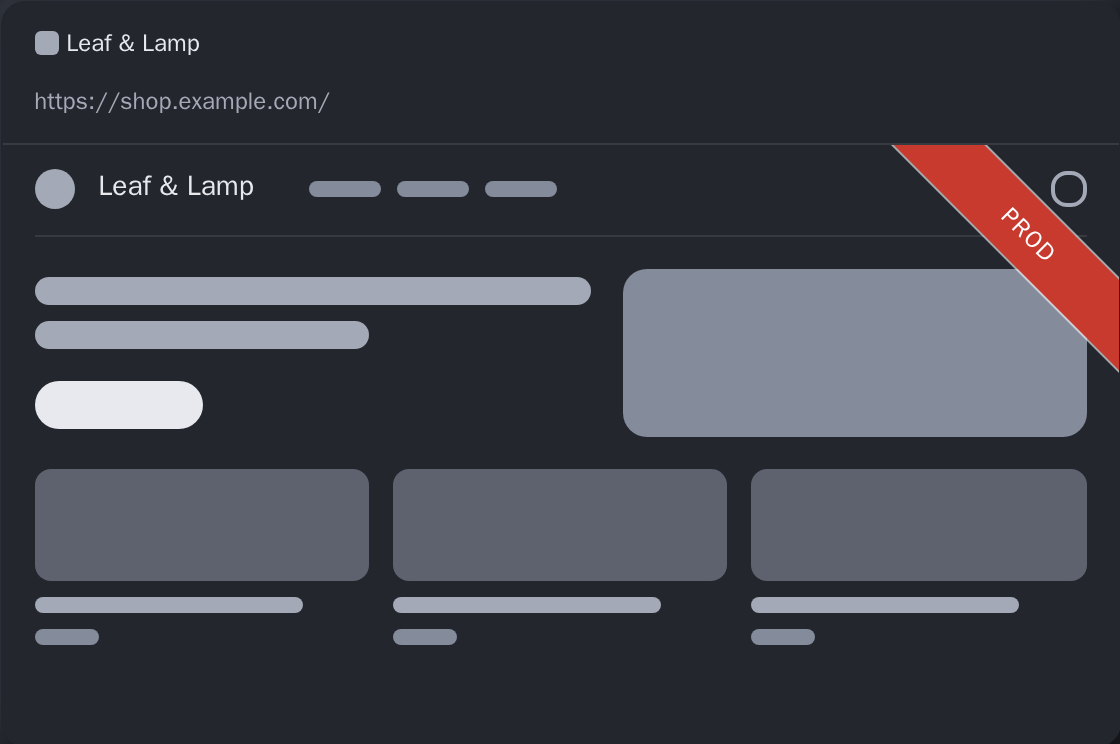
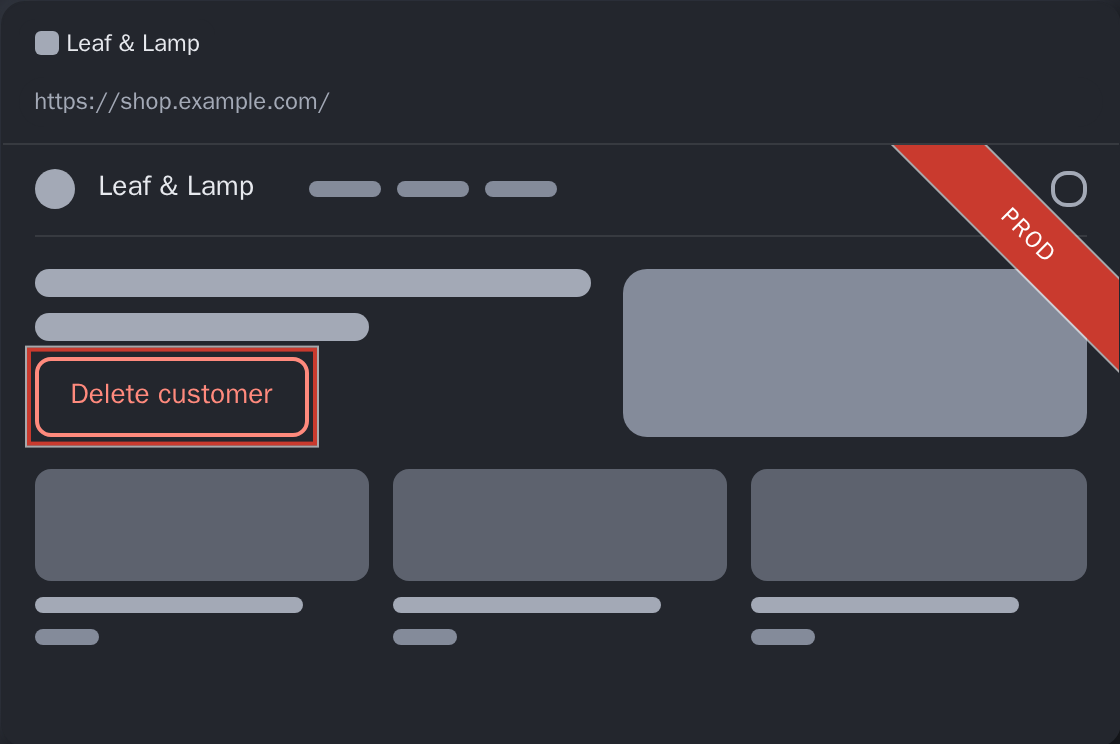
fix: show the Delete customer button and its options in the playground
Claude-Session: https://claude.ai/code/session_01ACn23u6LPvKSkeKNRiEsiC

Changed region(s): [[0.0, 0.3401, 0.5312, 0.6183]]

diff --git a/website/src/playground/Playground.test.tsx b/website/src/playground/Playground.test.tsx
@@ -50,18 +50,19 @@ describe('REQ-PLAY-001 the playground is the options page’s mark form next to 
 
   it('starts with the ribbon, which stays on as the last effect, and shows settings for what is on', () => {
     render(<Playground t={en.t} />);
-    expect(screen.getByRole('switch', { name: 'Ribbon' })).toHaveProperty('disabled', true);
+    const ribbon = () =>
+      within(effects()[0] as HTMLElement).getByRole('switch', { name: 'Ribbon' });
+    expect(ribbon()).toHaveProperty('disabled', true);
     expect(screen.getByRole('textbox', { name: 'Ribbon text' })).toHaveProperty('value', 'PROD');
     expect(screen.queryByRole('slider', { name: 'Frame width' })).toBeNull();
     fireEvent.click(screen.getByRole('switch', { name: 'Frame' }));
     expect(screen.getByRole('slider', { name: 'Frame width' })).toBeTruthy();
-    expect(screen.getByRole('switch', { name: 'Ribbon' })).toHaveProperty('disabled', false);
+    expect(ribbon()).toHaveProperty('disabled', false);
   });
 
-  it('marks the sample button on request, with the effects an element can have', () => {
+  it('marks the sample button from the start, with the effects an element can have', () => {
     render(<Playground t={en.t} />);
-    expect(effects()).toHaveLength(1);
-    fireEvent.click(screen.getByRole('switch', { name: 'Also mark the Delete customer button' }));
+    expect(effects()).toHaveLength(2);
     expect(switchNames(effects()[1] as HTMLElement)).toEqual([
       'Ribbon',
       'Outline',
@@ -81,7 +82,7 @@ describe('REQ-PLAY-001 the playground is the options page’s mark form next to 
     expect(toggle?.getAttribute('aria-checked')).toBe('false');
     expect(screen.queryByText('SiteMark is off, so the page shows no marks.')).not.toBeNull();
     fireEvent.click(toggle as HTMLElement);
-    expect(status()).toBe('The page shows ribbon in red.');
+    expect(status()).toBe('The page shows ribbon in red. The Delete customer button has outline.');
   });
 
   it('shows a mock browser: tab title, sample address and a sample web shop', () => {
@@ -131,9 +132,8 @@ describe('REQ-PLAY-005 the playground is accessible', () => {
   it('has no axe violations with every effect on and a field showing an error', async () => {
     const { container } = render(<Playground t={en.t} />);
     for (const name of ['Banner', 'Frame', 'Tint', 'Stripes', 'Watermark', 'Title prefix']) {
-      fireEvent.click(screen.getByRole('switch', { name }));
+      fireEvent.click(screen.getAllByRole('switch', { name })[0] as HTMLElement);
     }
-    fireEvent.click(screen.getByRole('switch', { name: 'Also mark the Delete customer button' }));
     fireEvent.click(screen.getByRole('switch', { name: 'Outline' }));
     const hex = screen.getByRole('textbox', { name: 'Custom color' });
     fireEvent.change(hex, { target: { value: 'nope' } });
@@ -143,14 +143,11 @@ describe('REQ-PLAY-005 the playground is accessible', () => {
 
   it('tells assistive technology what the preview shows, in words', () => {
     render(<Playground t={en.t} />);
-    expect(status()).toBe('The page shows ribbon in red.');
+    expect(status()).toBe('The page shows ribbon in red. The Delete customer button has outline.');
     fireEvent.click(screen.getByRole('radio', { name: 'Slate' }));
     fireEvent.click(screen.getByRole('switch', { name: 'Frame' }));
-    expect(status()).toBe('The page shows ribbon, frame in slate.');
     fireEvent.click(screen.getByRole('switch', { name: 'Also mark the Delete customer button' }));
-    expect(status()).toBe(
-      'The page shows ribbon, frame in slate. The Delete customer button has outline.',
-    );
+    expect(status()).toBe('The page shows ribbon, frame in slate.');
   });
 
   it('describes the hero preview too, and names its presets', async () => {

diff --git a/src/ui/components/MarkPreview.tsx b/src/ui/components/MarkPreview.tsx
@@ -19,8 +19,11 @@ export type MarkPreviewProps = {
   readonly labels: ViewLabels;
   /** The text of the element that element marks mark (the website's "Delete customer" button). */
   readonly targetLabel?: string;
-  /** Replaces the default placeholder page (the website draws a sample shop). Decorative. */
-  readonly children?: ReactNode;
+  /**
+   * Replaces the default placeholder page (the website draws a sample shop). Decorative. A function
+   * gets the element that element marks mark, to place it in the page.
+   */
+  readonly children?: ReactNode | ((target: ReactNode) => ReactNode);
   /** Extra class for the figure, e.g. to set `--sm-preview-height`. */
   readonly className?: string | undefined;
 };
@@ -76,6 +79,11 @@ export function MarkPreview({
   useMarkViews(plan, labels, refs);
   const prefix = itemOf(plan, 'titlePrefix')?.params.text;
   const favicon = itemOf(plan, 'favicon');
+  const targetElement = (
+    <div ref={refs.target} className={targetLabel ? styles.button : styles.target}>
+      {targetLabel}
+    </div>
+  );
   return (
     <figure aria-label={label} className={classNames(styles.preview, className)}>
       <div className={styles.chrome}>
@@ -91,16 +99,16 @@ export function MarkPreview({
       </div>
       <div className={styles.viewport}>
         <div className={children ? styles.sample : styles.page} aria-hidden="true">
-          {children ?? (
-            <>
-              <span className={styles.line} />
-              <span className={styles.line} />
-              <div ref={refs.target} className={targetLabel ? styles.button : styles.target}>
-                {targetLabel}
-              </div>
-              <span className={styles.line} />
-            </>
-          )}
+          {typeof children === 'function'
+            ? children(targetElement)
+            : (children ?? (
+                <>
+                  <span className={styles.line} />
+                  <span className={styles.line} />
+                  {targetElement}
+                  <span className={styles.line} />
+                </>
+              ))}
         </div>
         <div ref={refs.host} data-marker-host="" className={styles.host} />
       </div>

diff --git a/website/src/playground/Playground.browser.test.ts b/website/src/playground/Playground.browser.test.ts
@@ -29,7 +29,8 @@ const rgb = (hex: string) => {
 };
 
 const band = () => marks().querySelector<HTMLElement>('.sm-ribbon__band');
-const flip = (name: string) => fireEvent.click(screen.getByRole('switch', { name }));
+const flip = (name: string) =>
+  fireEvent.click(screen.getAllByRole('switch', { name })[0] as HTMLElement);
 const shown = () =>
   document.querySelector('[data-marker-host]')?.shadowRoot?.querySelector('.sm-view');
 
@@ -40,7 +41,8 @@ describe('REQ-PLAY-002 the extension draws the playground marks in the mock brow
     expect(band() && getComputedStyle(band() as HTMLElement).backgroundColor).toBe(
       rgb(presetColor('red')),
     );
-    expect(marks().querySelectorAll('.sm-view')).toHaveLength(1);
+    // The ribbon and the outline on the sample button.
+    expect(marks().querySelectorAll('.sm-view')).toHaveLength(2);
   });
 
   it('follows the color and the ribbon text', () => {
@@ -64,11 +66,17 @@ describe('REQ-PLAY-002 the extension draws the playground marks in the mock brow
     expect(marks().querySelector('.sm-watermark__plane')).not.toBeNull();
   });
 
-  it('outlines the sample button once its mark is on, and drops the page ribbon with its switch', () => {
+  it('outlines the sample button until its mark is off, and drops the page ribbon with its switch', () => {
     render(createElement(Playground, { t: en.t }));
-    expect(marks().querySelector('.sm-outline')).toBeNull();
+    const outline = marks().querySelector('.sm-outline')?.getBoundingClientRect();
+    const button = screen.getByText('Delete customer').getBoundingClientRect();
+    expect(button.width).toBeGreaterThan(0);
+    expect(outline?.left).toBeLessThanOrEqual(button.left);
+    expect(outline?.top).toBeLessThanOrEqual(button.top);
+    expect(outline?.right).toBeGreaterThanOrEqual(button.right);
+    expect(outline?.bottom).toBeGreaterThanOrEqual(button.bottom);
     flip('Also mark the Delete customer button');
-    expect(marks().querySelector('.sm-outline')).not.toBeNull();
+    expect(marks().querySelector('.sm-outline')).toBeNull();
     flip('Frame');
     fireEvent.click(screen.getAllByRole('switch', { name: 'Ribbon' })[0] as HTMLElement);
     expect(band()).toBeNull();

diff --git a/website/src/playground/MockShop.tsx b/website/src/playground/MockShop.tsx
@@ -1,14 +1,16 @@
+import type { ReactNode } from 'react';
 import styles from './MockShop.module.css';
 
-type Props = { readonly brand: string };
+type Props = { readonly brand: string; readonly button: ReactNode };
 
 const PRODUCTS = [1, 2, 3] as const;
 
 /**
  * The sample page in the mock browser: a generic web shop (header, hero, three products), drawn
- * from plain shapes so it looks like a real site without copying any. It is decorative.
+ * from plain shapes so it looks like a real site without copying any. It is decorative; `button` is
+ * the element the playground's element mark marks.
  */
-export function MockShop({ brand }: Props) {
+export function MockShop({ brand, button }: Props) {
   return (
     <div className={styles.shop}>
       <div className={styles.bar}>
@@ -25,7 +27,7 @@ export function MockShop({ brand }: Props) {
         <div className={styles.copy}>
           <span className={styles.headline} />
           <span className={styles.headlineShort} />
-          <span className={styles.cta} />
+          {button}
         </div>
         <span className={styles.picture} />
       </div>

diff --git a/website/src/playground/Playground.tsx b/website/src/playground/Playground.tsx
@@ -16,12 +16,15 @@ import {
 } from './playground-state';
 
 /**
- * The playground (REQ-PLAY-001): the options page's own mark form, for a page mark and an optional
- * mark on the sample button, next to the mock browser where the extension's own code draws the
- * marks. Nothing is stored (REQ-PLAY-002).
+ * The playground (REQ-PLAY-001): the options page's own mark form, for a page mark and a mark on
+ * the sample button (on from the start, so its options are in view), next to the mock browser where
+ * the extension's own code draws the marks. Nothing is stored (REQ-PLAY-002).
  */
 export function Playground({ t }: IslandProps) {
-  const [state, setState] = useState(initialPlaygroundState);
+  const [state, setState] = useState<PlaygroundState>(() => ({
+    ...initialPlaygroundState(),
+    elementEffects: DEFAULT_ELEMENT_EFFECTS,
+  }));
   const change = async (next: Partial<PlaygroundState>): Promise<undefined> => {
     setState((current) => ({ ...current, ...next }));
   };

diff --git a/src/ui/components/Field.module.css b/src/ui/components/Field.module.css
@@ -22,6 +22,24 @@
   transition: box-shadow var(--sm-duration) var(--sm-ease);
 }
 
+/* A file input's native button becomes the raised button of the rest of the UI. */
+.control::file-selector-button {
+  margin-inline: calc(var(--sm-space-4) * -0.5) var(--sm-space-3);
+  padding: var(--sm-space-1) var(--sm-space-4);
+  border: 1px solid transparent;
+  border-radius: var(--sm-radius-md);
+  background: var(--sm-surface);
+  color: var(--sm-text);
+  box-shadow: var(--sm-raised-sm);
+  font: inherit;
+  font-weight: 600;
+  cursor: pointer;
+}
+
+.control::file-selector-button:hover {
+  box-shadow: var(--sm-raised);
+}
+
 textarea.control {
   min-height: 72px;
   resize: vertical;
@@ -65,6 +83,10 @@ textarea.control {
 
 @media (forced-colors: active) {
   .control {
+    border-color: ButtonText;
+  }
+
+  .control::file-selector-button {
     border-color: ButtonText;
   }
 

diff --git a/website/src/playground/PlaygroundPreview.tsx b/website/src/playground/PlaygroundPreview.tsx
@@ -27,12 +27,13 @@ export function PlaygroundPreview({ t, state }: Props) {
         pageTitle={t('websitePlaygroundPageTitle')}
         address={PLAYGROUND_ADDRESS}
         className={styles.mock}
+        targetLabel={t('websitePlaygroundDeleteButton')}
         labels={{
           collapseBanner: t('markerCollapseBanner'),
           expandBanner: t('markerExpandBanner'),
         }}
       >
-        <MockShop brand={t('websitePlaygroundPageTitle')} />
+        {(button) => <MockShop brand={t('websitePlaygroundPageTitle')} button={button} />}
       </MarkPreview>
       <p role="status" className="sm-visually-hidden">
         {playgroundSummary(state, t)}

diff --git a/website/src/playground/MockShop.module.css b/website/src/playground/MockShop.module.css
@@ -74,14 +74,6 @@
   inline-size: 60%;
 }
 
-.cta {
-  inline-size: 84px;
-  block-size: 24px;
-  margin-top: var(--sm-space-2);
-  border-radius: var(--sm-radius-pill);
-  background: var(--sm-text);
-}
-
 .picture {
   block-size: 84px;
   border-radius: var(--sm-radius-md);
@@ -125,7 +117,6 @@
   .link,
   .headline,
   .headlineShort,
-  .cta,
   .picture,
   .thumb,
   .name,

diff --git a/docs/website/spec.md b/docs/website/spec.md
@@ -99,14 +99,14 @@ Priority: **M**ust / **C**ould. Milestones: **W1** (before the store release, T-
 
 ### 5.4 Playground — `PLAY` (W2)
 
-| ID           | P   | Requirement                                                                                                                                                                                                                                                                                                                                                                                                                                                                                                                                                                                                                               |
-| ------------ | --- | ----------------------------------------------------------------------------------------------------------------------------------------------------------------------------------------------------------------------------------------------------------------------------------------------------------------------------------------------------------------------------------------------------------------------------------------------------------------------------------------------------------------------------------------------------------------------------------------------------------------------------------------- |
-| REQ-PLAY-001 | M   | `/playground/` shows a mock browser window (tab title, address bar with a sample URL, a generic sample web shop built from plain shapes) and the **same mark form as the extension's options page** (shared components from `src/ui/components/mark-form`, D-286): color presets with a custom hex, text color, and every page effect with its settings, plus an optional element mark on the sample button. Feature parity with the app is the goal, so new effects appear here without website changes. A **SiteMark switch** above the preview turns every mark off and on, so a visitor sees the same page with and without SiteMark. |
-| REQ-PLAY-002 | M   | The marks are rendered by **the extension's code**: a render plan from `src/core/render/compose.ts`, built from a playground-local `SiteGroup` and drawn by `src/shared/marker-view` inside the shared mock-browser preview component (`src/ui/components`, D-254). The website keeps no copy of any effect styles. Nothing is persisted.                                                                                                                                                                                                                                                                                                 |
-| REQ-PLAY-003 | M   | Without JavaScript, the prerendered page shows a generated static image of the default preview and a short note that the playground needs JavaScript.                                                                                                                                                                                                                                                                                                                                                                                                                                                                                     |
-| REQ-PLAY-004 | M   | **Home hero:** a smaller version on the home page with only the four presets, built from the same components.                                                                                                                                                                                                                                                                                                                                                                                                                                                                                                                             |
-| REQ-PLAY-005 | M   | Accessible: labeled native controls, fully keyboard-operable. The mark text is exposed as in REQ-A11Y-006, `prefers-reduced-motion` is respected, and color is never the only cue (presets have names).                                                                                                                                                                                                                                                                                                                                                                                                                                   |
-| REQ-PLAY-006 | M   | Hex input is validated with the **core schemas** (hex color, mark text limits) and shows the same error messages as the options page.                                                                                                                                                                                                                                                                                                                                                                                                                                                                                                     |
+| ID           | P   | Requirement                                                                                                                                                                                                                                                                                                                                                                                                                                                                                                                                                                                                                                                                                             |
+| ------------ | --- | ------------------------------------------------------------------------------------------------------------------------------------------------------------------------------------------------------------------------------------------------------------------------------------------------------------------------------------------------------------------------------------------------------------------------------------------------------------------------------------------------------------------------------------------------------------------------------------------------------------------------------------------------------------------------------------------------------- |
+| REQ-PLAY-001 | M   | `/playground/` shows a mock browser window (tab title, address bar with a sample URL, a generic sample web shop built from plain shapes) and the **same mark form as the extension's options page** (shared components from `src/ui/components/mark-form`, D-286): color presets with a custom hex, text color, and every page effect with its settings, plus an element mark on the sample button (on from the start, so its options are in view; a switch turns it off). Feature parity with the app is the goal, so new effects appear here without website changes. A **SiteMark switch** above the preview turns every mark off and on, so a visitor sees the same page with and without SiteMark. |
+| REQ-PLAY-002 | M   | The marks are rendered by **the extension's code**: a render plan from `src/core/render/compose.ts`, built from a playground-local `SiteGroup` and drawn by `src/shared/marker-view` inside the shared mock-browser preview component (`src/ui/components`, D-254). The website keeps no copy of any effect styles. Nothing is persisted.                                                                                                                                                                                                                                                                                                                                                               |
+| REQ-PLAY-003 | M   | Without JavaScript, the prerendered page shows a generated static image of the default preview and a short note that the playground needs JavaScript.                                                                                                                                                                                                                                                                                                                                                                                                                                                                                                                                                   |
+| REQ-PLAY-004 | M   | **Home hero:** a smaller version on the home page with only the four presets, built from the same components.                                                                                                                                                                                                                                                                                                                                                                                                                                                                                                                                                                                           |
+| REQ-PLAY-005 | M   | Accessible: labeled native controls, fully keyboard-operable. The mark text is exposed as in REQ-A11Y-006, `prefers-reduced-motion` is respected, and color is never the only cue (presets have names).                                                                                                                                                                                                                                                                                                                                                                                                                                                                                                 |
+| REQ-PLAY-006 | M   | Hex input is validated with the **core schemas** (hex color, mark text limits) and shows the same error messages as the options page.                                                                                                                                                                                                                                                                                                                                                                                                                                                                                                                                                                   |
 
 ### 5.5 Search — `SEO`
 
